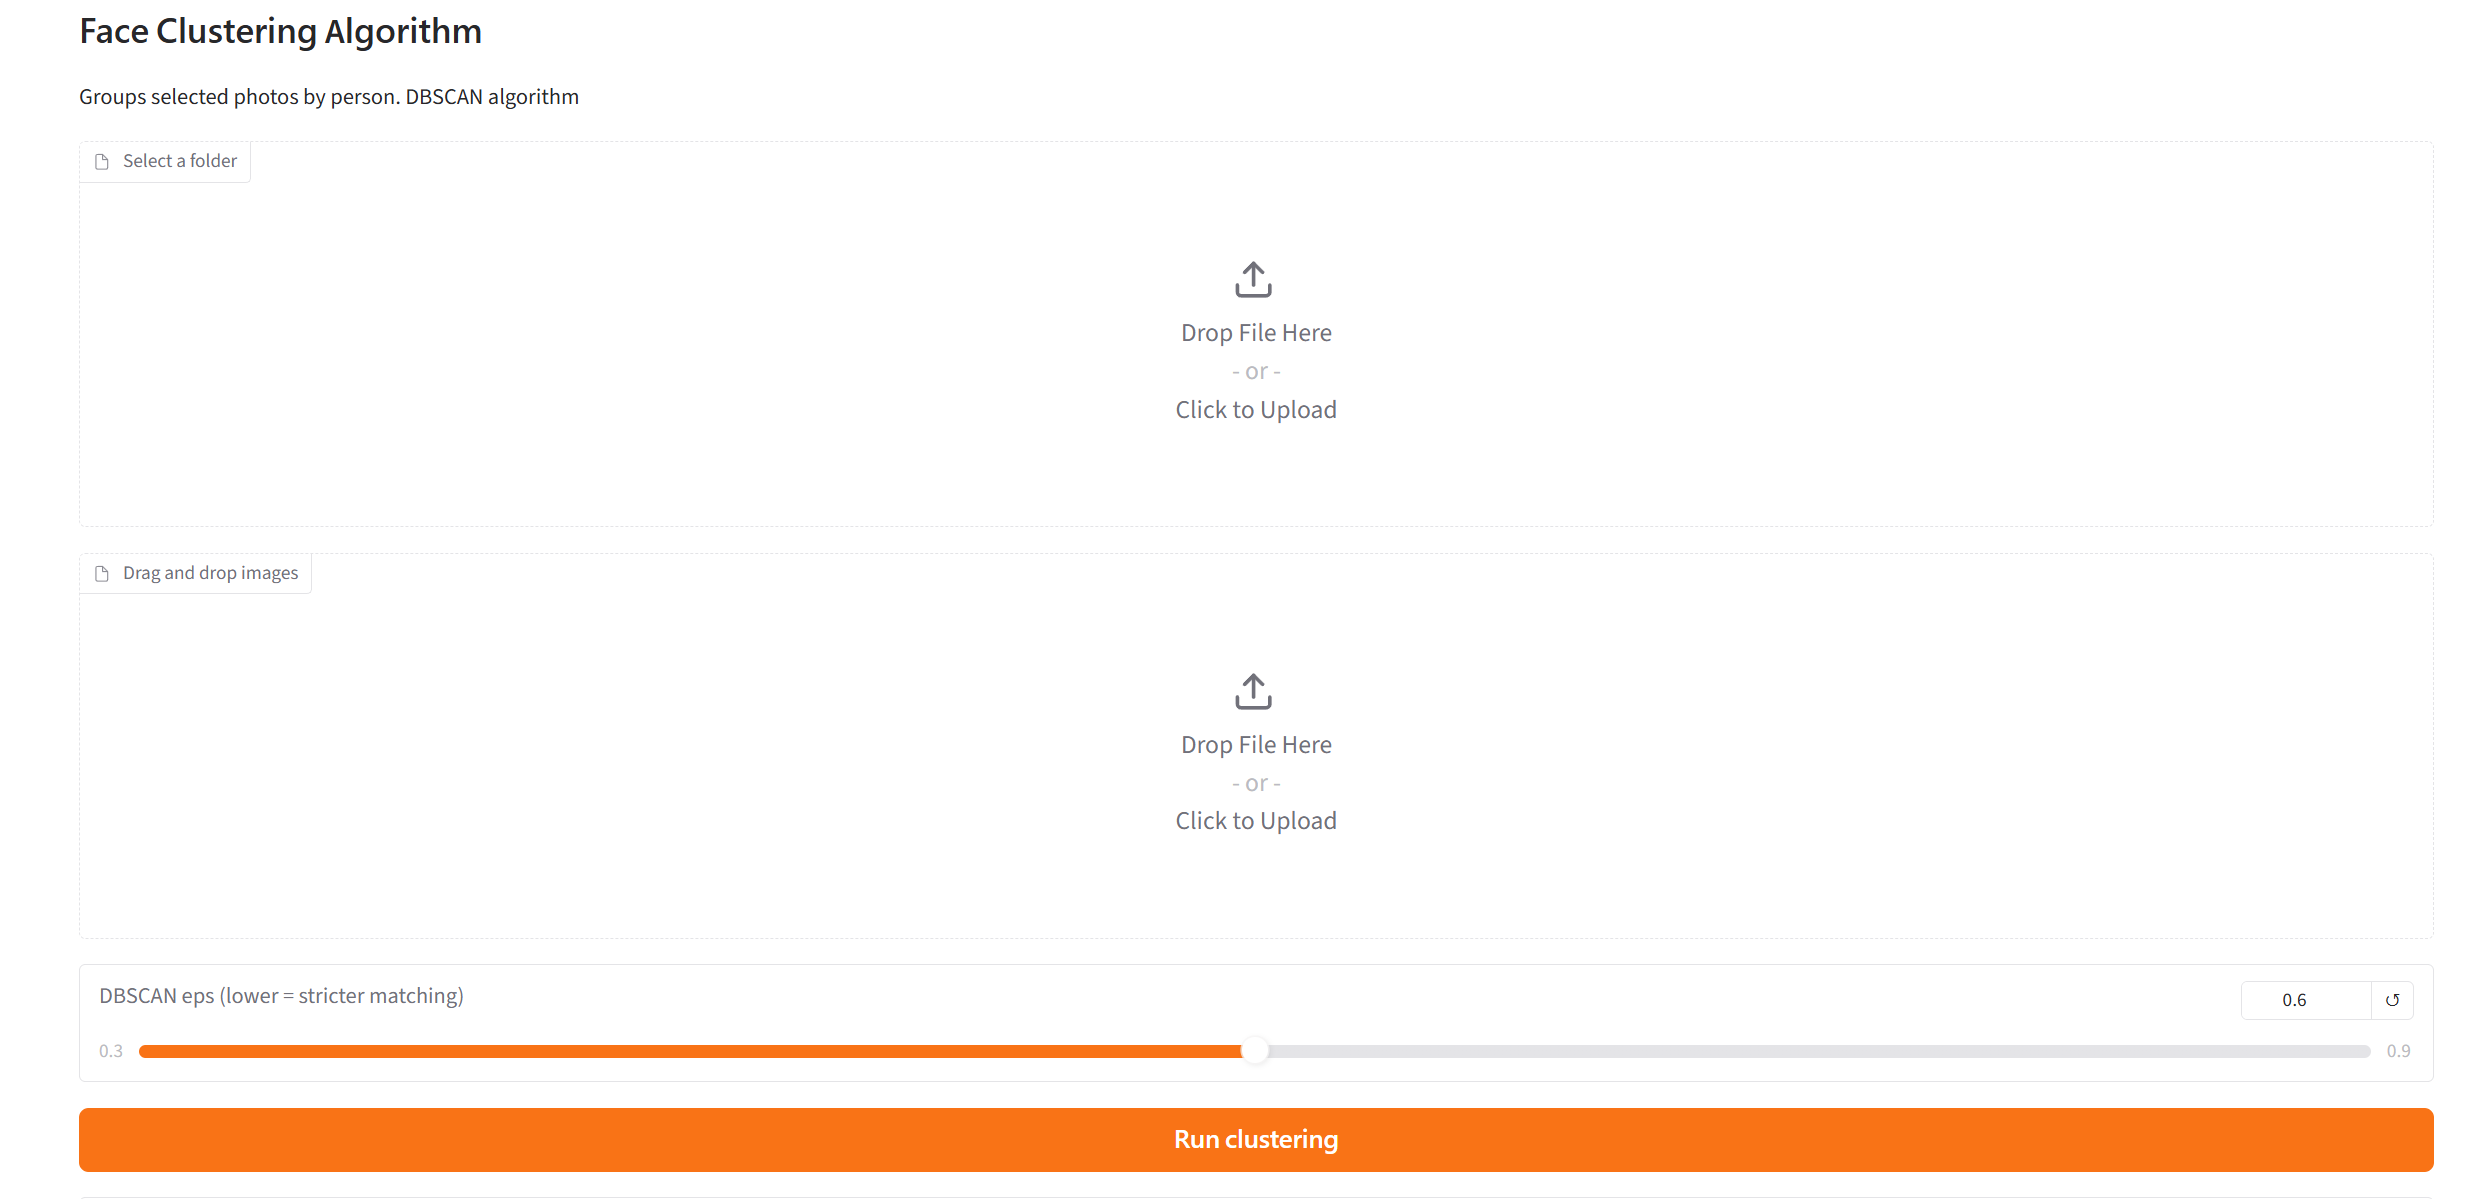
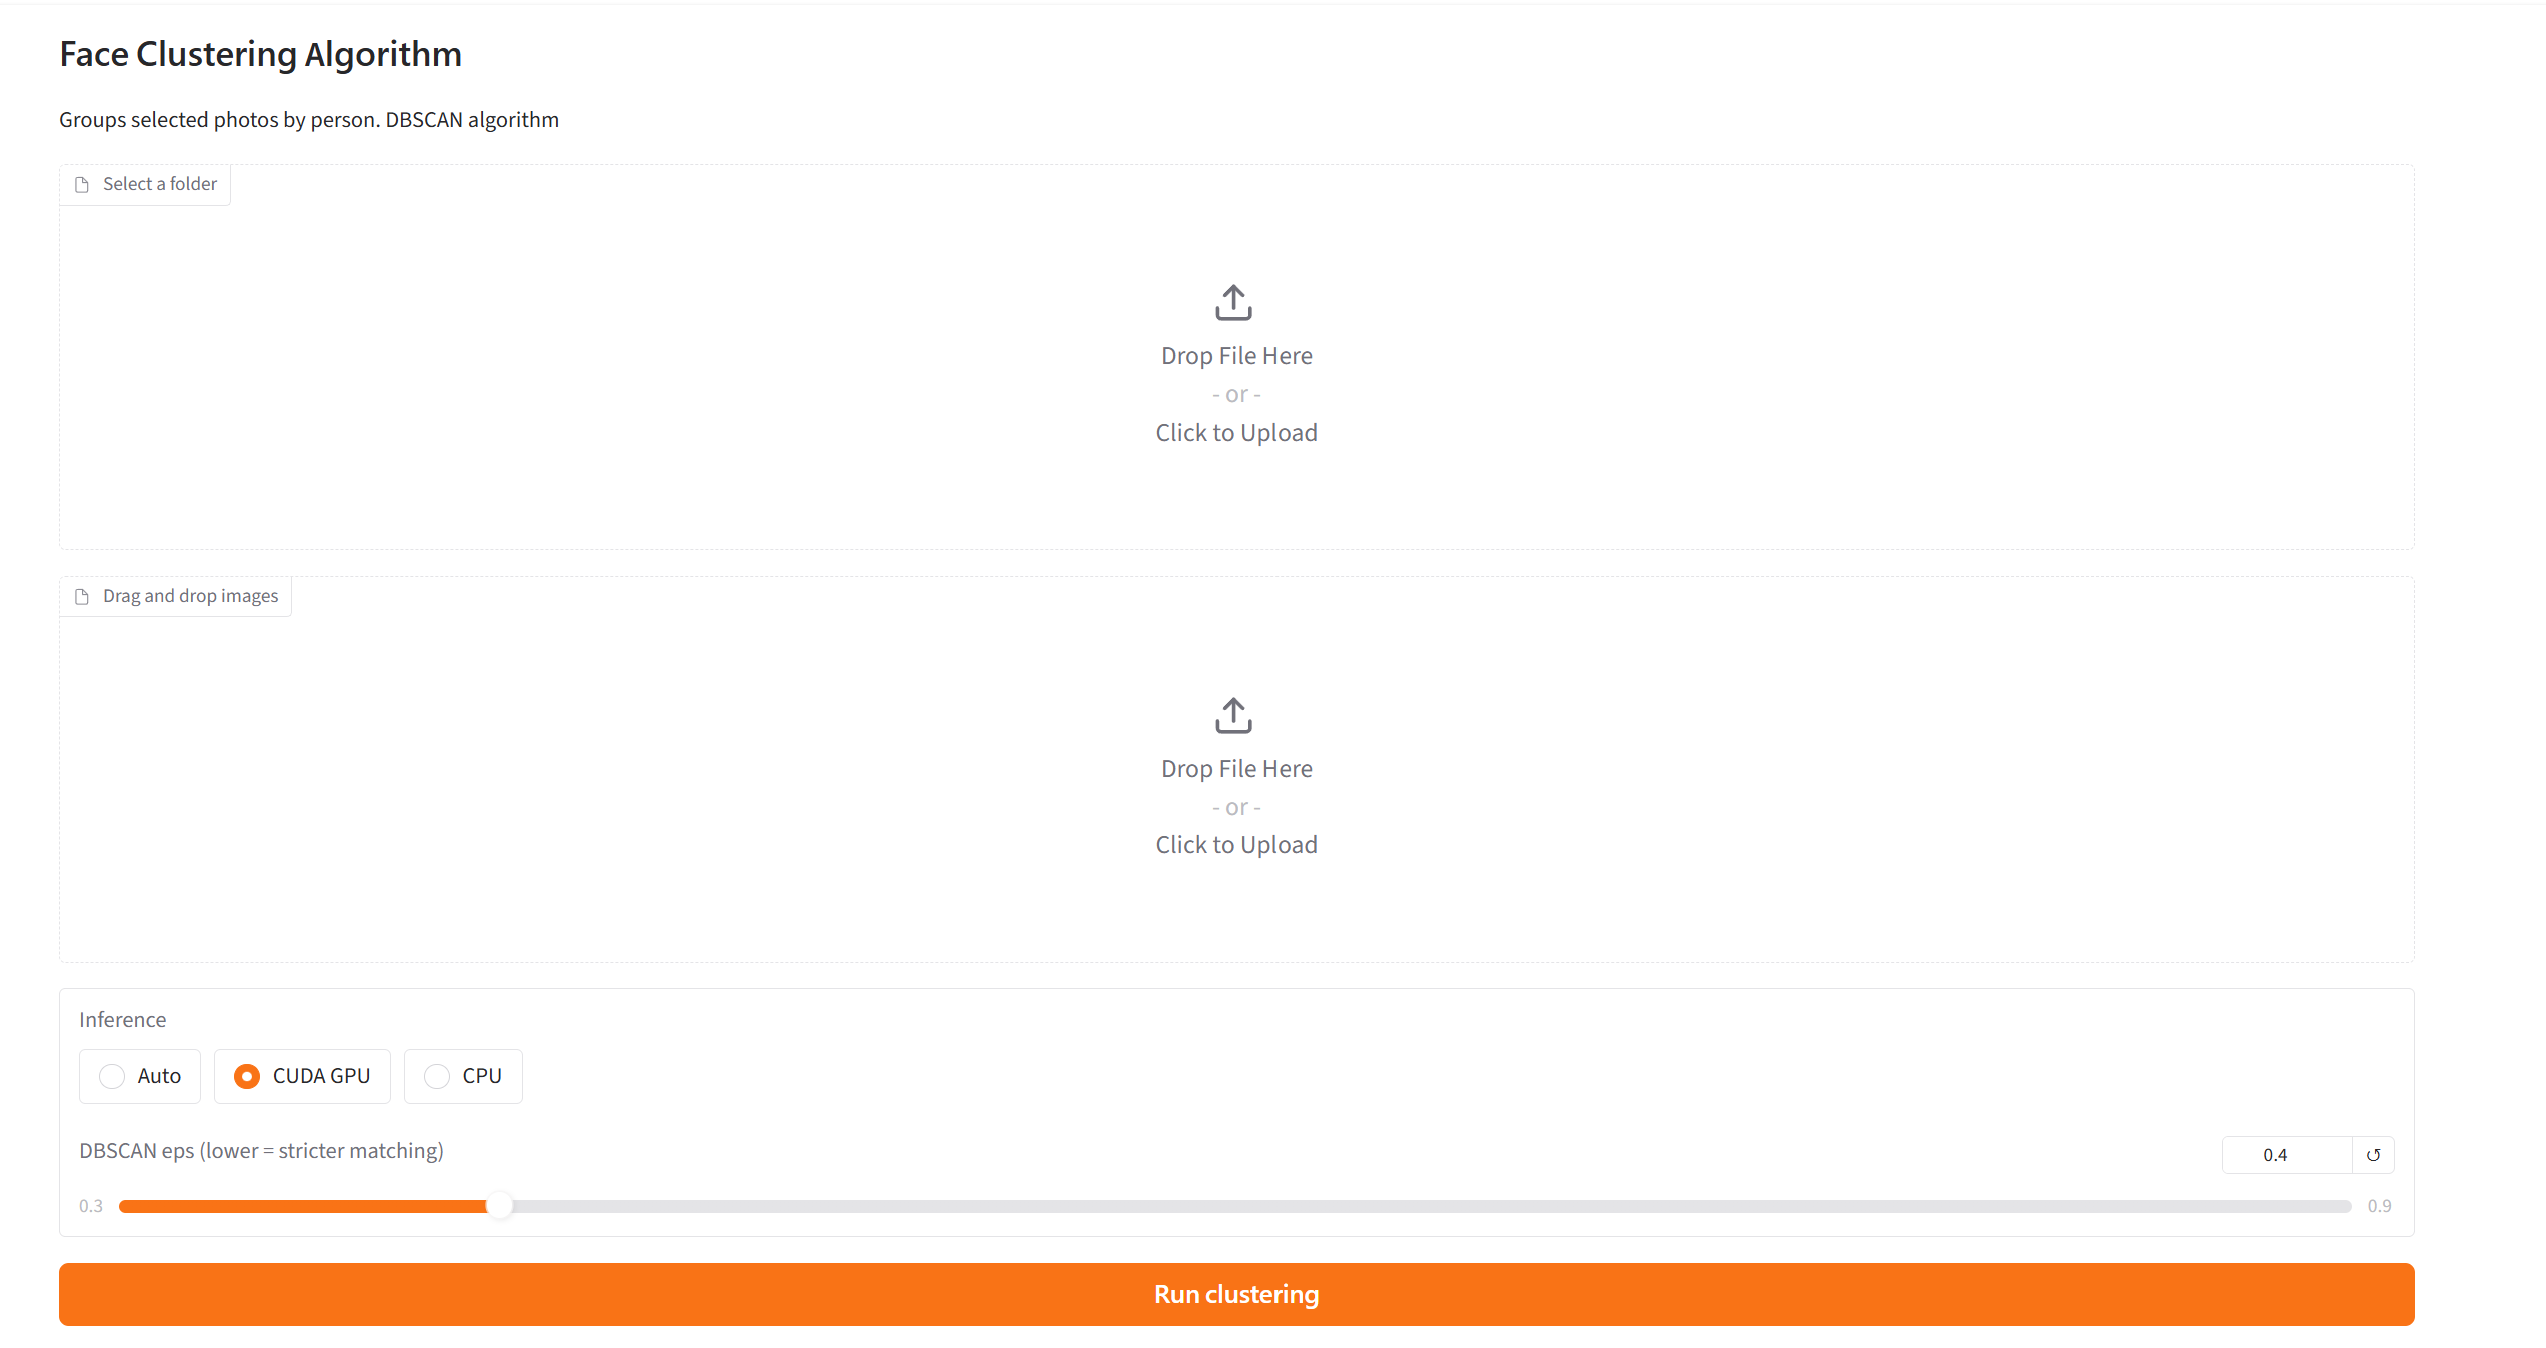
updated project to handle CPU and GPU inference with UI toggle and updated README to match project state

diff --git a/main.py b/main.py
@@ -13,34 +13,45 @@ from pathlib import Path
 # ── Config ────────────────────────────────────────────────────────────────────
 PHOTOS_DIR = Path("photos")
 OUTPUT_DIR = Path("output")
-USE_GPU    = True   # set False if CUDA not available
 
 # DBSCAN: auto-discovers k  |  cosine eps ~0.5 = strict, ~0.7 = lenient
 CLUSTER_MODE = "dbscan"   # "dbscan" | "kmeans"
 DBSCAN_EPS   = 0.6
 KMEANS_K     = 5          # only used if CLUSTER_MODE = "kmeans"
 IMAGE_SUFFIXES = {".jpg", ".jpeg", ".png", ".webp", ".bmp", ".tif", ".tiff"}
+INFERENCE_AUTO = "Auto"
+INFERENCE_CUDA = "CUDA GPU"
+INFERENCE_CPU = "CPU"
+INFERENCE_CHOICES = [INFERENCE_AUTO, INFERENCE_CUDA, INFERENCE_CPU]
 
 
-def get_execution_providers(use_gpu: bool) -> list[str]:
-    if not use_gpu:
-        return ["CPUExecutionProvider"]
-
+def resolve_execution_mode(inference_mode: str) -> tuple[str, str, list[str], int]:
+    inference_mode = inference_mode or INFERENCE_AUTO
     available = ort.get_available_providers()
-    if "CUDAExecutionProvider" not in available:
-        raise RuntimeError(
-            "CUDAExecutionProvider is not available. "
-            f"Available providers: {available}"
-        )
 
-    return ["CUDAExecutionProvider", "CPUExecutionProvider"]
+    if inference_mode == INFERENCE_CPU:
+        return "cpu", INFERENCE_CPU, ["CPUExecutionProvider"], -1
 
+    if inference_mode == INFERENCE_CUDA:
+        if "CUDAExecutionProvider" not in available:
+            raise RuntimeError(
+                "CUDA GPU was selected, but CUDAExecutionProvider is not available. "
+                f"Available providers: {available}"
+            )
+        return "cuda", INFERENCE_CUDA, ["CUDAExecutionProvider", "CPUExecutionProvider"], 0
 
-providers = get_execution_providers(USE_GPU)
-ctx_id = 0 if USE_GPU else -1
+    if inference_mode == INFERENCE_AUTO:
+        if "CUDAExecutionProvider" in available:
+            return "cuda", INFERENCE_CUDA, ["CUDAExecutionProvider", "CPUExecutionProvider"], 0
+        return "cpu", INFERENCE_CPU, ["CPUExecutionProvider"], -1
+
+    raise RuntimeError(
+        f"Unknown inference mode: {inference_mode}. "
+        f"Choose one of: {', '.join(INFERENCE_CHOICES)}"
+    )
+
 
 print("ONNX Runtime providers:", ort.get_available_providers(), flush=True)
-print("Using providers:", providers, flush=True)
 
 import cv2
 import numpy as np
@@ -49,15 +60,13 @@ import gradio as gr
 from tqdm import tqdm
 from insightface.app import FaceAnalysis
 from sklearn.cluster import DBSCAN, KMeans
-from PIL import Image
 
 
-# ── Model init ────────────────────────────────────────────────────────────────
-app = FaceAnalysis(name="buffalo_l", providers=providers)
-app.prepare(ctx_id=ctx_id, det_size=(640, 640))
+FACE_APPS = {}
 
-if USE_GPU:
-    for model_name, model in app.models.items():
+
+def verify_cuda_sessions(face_app: FaceAnalysis) -> None:
+    for model_name, model in face_app.models.items():
         session = getattr(model, "session", None)
         if session is None:
             continue
@@ -68,6 +77,31 @@ if USE_GPU:
                 f"{model_name} is not using CUDA. "
                 f"Active providers: {model_providers}"
             )
+
+
+def get_face_app(inference_mode: str) -> tuple[FaceAnalysis, str]:
+    mode_key, mode_label, providers, ctx_id = resolve_execution_mode(inference_mode)
+    if mode_key in FACE_APPS:
+        return FACE_APPS[mode_key], mode_label
+
+    print(f"Initializing InsightFace with providers: {providers}", flush=True)
+    face_app = FaceAnalysis(name="buffalo_l", providers=providers)
+    face_app.prepare(ctx_id=ctx_id, det_size=(640, 640))
+
+    if mode_key == "cuda":
+        verify_cuda_sessions(face_app)
+
+    FACE_APPS[mode_key] = face_app
+    return face_app, mode_label
+
+
+def provider_error(message: str) -> str:
+    return (
+        f"Could not start inference.\n"
+        f"{message}\n\n"
+        f"Available providers: {ort.get_available_providers()}"
+    )
+
 
 # ── Core pipeline ─────────────────────────────────────────────────────────────
 def image_paths_from_dir(photos_dir: Path) -> list[Path]:
@@ -101,7 +135,7 @@ def selected_image_paths(folder_files=None, dropped_files=None) -> list[Path]:
     return image_paths_from_dir(PHOTOS_DIR)
 
 
-def extract_embeddings(image_paths: list[Path]):
+def extract_embeddings(image_paths: list[Path], face_app: FaceAnalysis):
     embeddings, meta = [], []
 
     print(f"Found {len(image_paths)} images")
@@ -110,7 +144,7 @@ def extract_embeddings(image_paths: list[Path]):
         img = cv2.imread(str(img_path))
         if img is None:
             continue
-        faces = app.get(img)
+        faces = face_app.get(img)
         for face in faces:
             embeddings.append(face.normed_embedding)   # 512-dim, L2 normalised
             meta.append(img_path)
@@ -142,9 +176,13 @@ def organise_output(meta, labels, output_dir: Path):
             shutil.copy(img_path, dest_file)
 
 
-def run_pipeline(folder_files=None, dropped_files=None):
+def run_pipeline(folder_files=None, dropped_files=None, inference_mode=INFERENCE_AUTO):
     image_paths = selected_image_paths(folder_files, dropped_files)
-    embeddings, meta = extract_embeddings(image_paths)
+    if not image_paths:
+        return "No images found. Select a folder, drag in images, or add images to photos/."
+
+    face_app, resolved_mode = get_face_app(inference_mode)
+    embeddings, meta = extract_embeddings(image_paths, face_app)
     if len(embeddings) == 0:
         return "No faces found in the selected images."
 
@@ -155,6 +193,7 @@ def run_pipeline(folder_files=None, dropped_files=None):
     n_unknown = (labels == -1).sum()
     return (
         f"Done.\n"
+        f"  Inference: {resolved_mode}\n"
         f"  {len(meta)} faces detected across {len(set(meta))} photos\n"
         f"  {n_people} people identified\n"
         f"  {n_unknown} face(s) marked unknown (too few matches)\n"
@@ -179,20 +218,28 @@ def gradio_app():
             type="filepath",
             label="Drag and drop images",
         )
+        inference_radio = gr.Radio(
+            choices=INFERENCE_CHOICES,
+            value=INFERENCE_AUTO,
+            label="Inference",
+        )
 
         eps_slider = gr.Slider(0.3, 0.9, value=DBSCAN_EPS, step=0.05,
                                label="DBSCAN eps  (lower = stricter matching)")
         run_btn    = gr.Button("Run clustering", variant="primary")
         output_box = gr.Textbox(label="Result", lines=6)
 
-        def run_with_inputs(folder_files, dropped_files, eps):
+        def run_with_inputs(folder_files, dropped_files, inference_mode, eps):
             global DBSCAN_EPS
             DBSCAN_EPS = eps
-            return run_pipeline(folder_files, dropped_files)
+            try:
+                return run_pipeline(folder_files, dropped_files, inference_mode)
+            except RuntimeError as exc:
+                return provider_error(str(exc))
 
         run_btn.click(
             run_with_inputs,
-            inputs=[folder_upload, dropped_upload, eps_slider],
+            inputs=[folder_upload, dropped_upload, inference_radio, eps_slider],
             outputs=output_box,
         )
 

diff --git a/README.md b/README.md
@@ -1,19 +1,25 @@
 # Face Cluster
 ![alt text](screenshot.png)
-Face Cluster is a local Gradio app that groups photos by detected person. It uses InsightFace Buffalo-L to detect faces and create face embeddings, runs ONNX Runtime with CUDA GPU inference, and clusters similar faces with DBSCAN.
+Face Cluster is a local Gradio app that groups photos by detected person. It uses InsightFace Buffalo-L to detect faces and create face embeddings, runs ONNX Runtime inference on CUDA GPU or CPU, and clusters similar faces with DBSCAN.
 
-The app is intended for Windows users with NVIDIA GPUs.
+The app is intended for Windows users. NVIDIA GPUs are recommended for faster CUDA inference, but CPU inference is also available from the UI.
 
 ## What it does
 
 - Select a folder of images or drag and drop images directly in the Gradio UI.
 - Detect every face found in the selected images.
 - Generate normalized face embeddings with InsightFace Buffalo-L.
-- Run inference through ONNX Runtime's `CUDAExecutionProvider`.
+- Run inference through ONNX Runtime's `CUDAExecutionProvider` or `CPUExecutionProvider`.
 - Cluster similar faces with DBSCAN.
 - Copy the original full photos into person folders under `output/`.
 
-## GPU inference
+## Inference modes
+
+The Gradio UI includes an **Inference** selector:
+
+- `Auto`: uses CUDA when `CUDAExecutionProvider` is available, otherwise CPU.
+- `CUDA GPU`: requires `CUDAExecutionProvider` and fails clearly if CUDA is unavailable.
+- `CPU`: uses `CPUExecutionProvider`.
 
 This project is configured for CUDA GPU inference with:
 
@@ -41,8 +47,7 @@ This is important because `insightface` depends on plain `onnxruntime`, which ca
 ## Requirements
 
 - Windows
-- NVIDIA GPU
-- Compatible NVIDIA driver
+- NVIDIA GPU and compatible driver for CUDA mode
 - Python `>=3.14`
 - [`uv`](https://docs.astral.sh/uv/) for dependency management
 
@@ -63,13 +68,13 @@ Install dependencies:
 uv sync
 ```
 
-Check that ONNX Runtime can see CUDA:
+Check that ONNX Runtime can see its available providers:
 
 ```powershell
 uv run python -c "import onnxruntime as ort; print(ort.get_available_providers())"
 ```
 
-Expected output should include:
+For CUDA mode, expected output should include:
 
 ```text
 CUDAExecutionProvider
@@ -104,6 +109,8 @@ The DBSCAN `eps` slider controls clustering strictness:
 
 - Lower values are stricter and create more separate groups.
 - Higher values are more lenient and may merge similar-looking people.
+
+The **Inference** selector controls whether the run uses Auto, CUDA GPU, or CPU mode.
 
 ## Output behavior
 
@@ -150,7 +157,7 @@ If it only shows CPU providers, make sure:
 
 ### `insightface` or ONNX Runtime falls back to CPU
 
-The app checks each InsightFace model session after startup. If CUDA is not active, it raises an error instead of silently running on CPU.
+When `CUDA GPU` mode is selected, the app checks each InsightFace model session. If CUDA is not active, it raises an error instead of silently running on CPU. Use `Auto` or `CPU` if you want CPU fallback.
 
 ### No faces found
 
@@ -174,7 +181,7 @@ output/          Generated clustering results, ignored by git
 
 ## Notes / current limitations
 
-- CPU-only mode is not the normal documented path yet. `USE_GPU = True` currently fails loudly when CUDA is unavailable.
+- CPU mode is supported, but it is slower than CUDA GPU mode.
 - The app organizes full original photos, not cropped face thumbnails.
 - Person folder names are automatic cluster IDs, not real names.
 - DBSCAN clustering quality depends on image quality, number of examples per person, and the selected `eps` value.